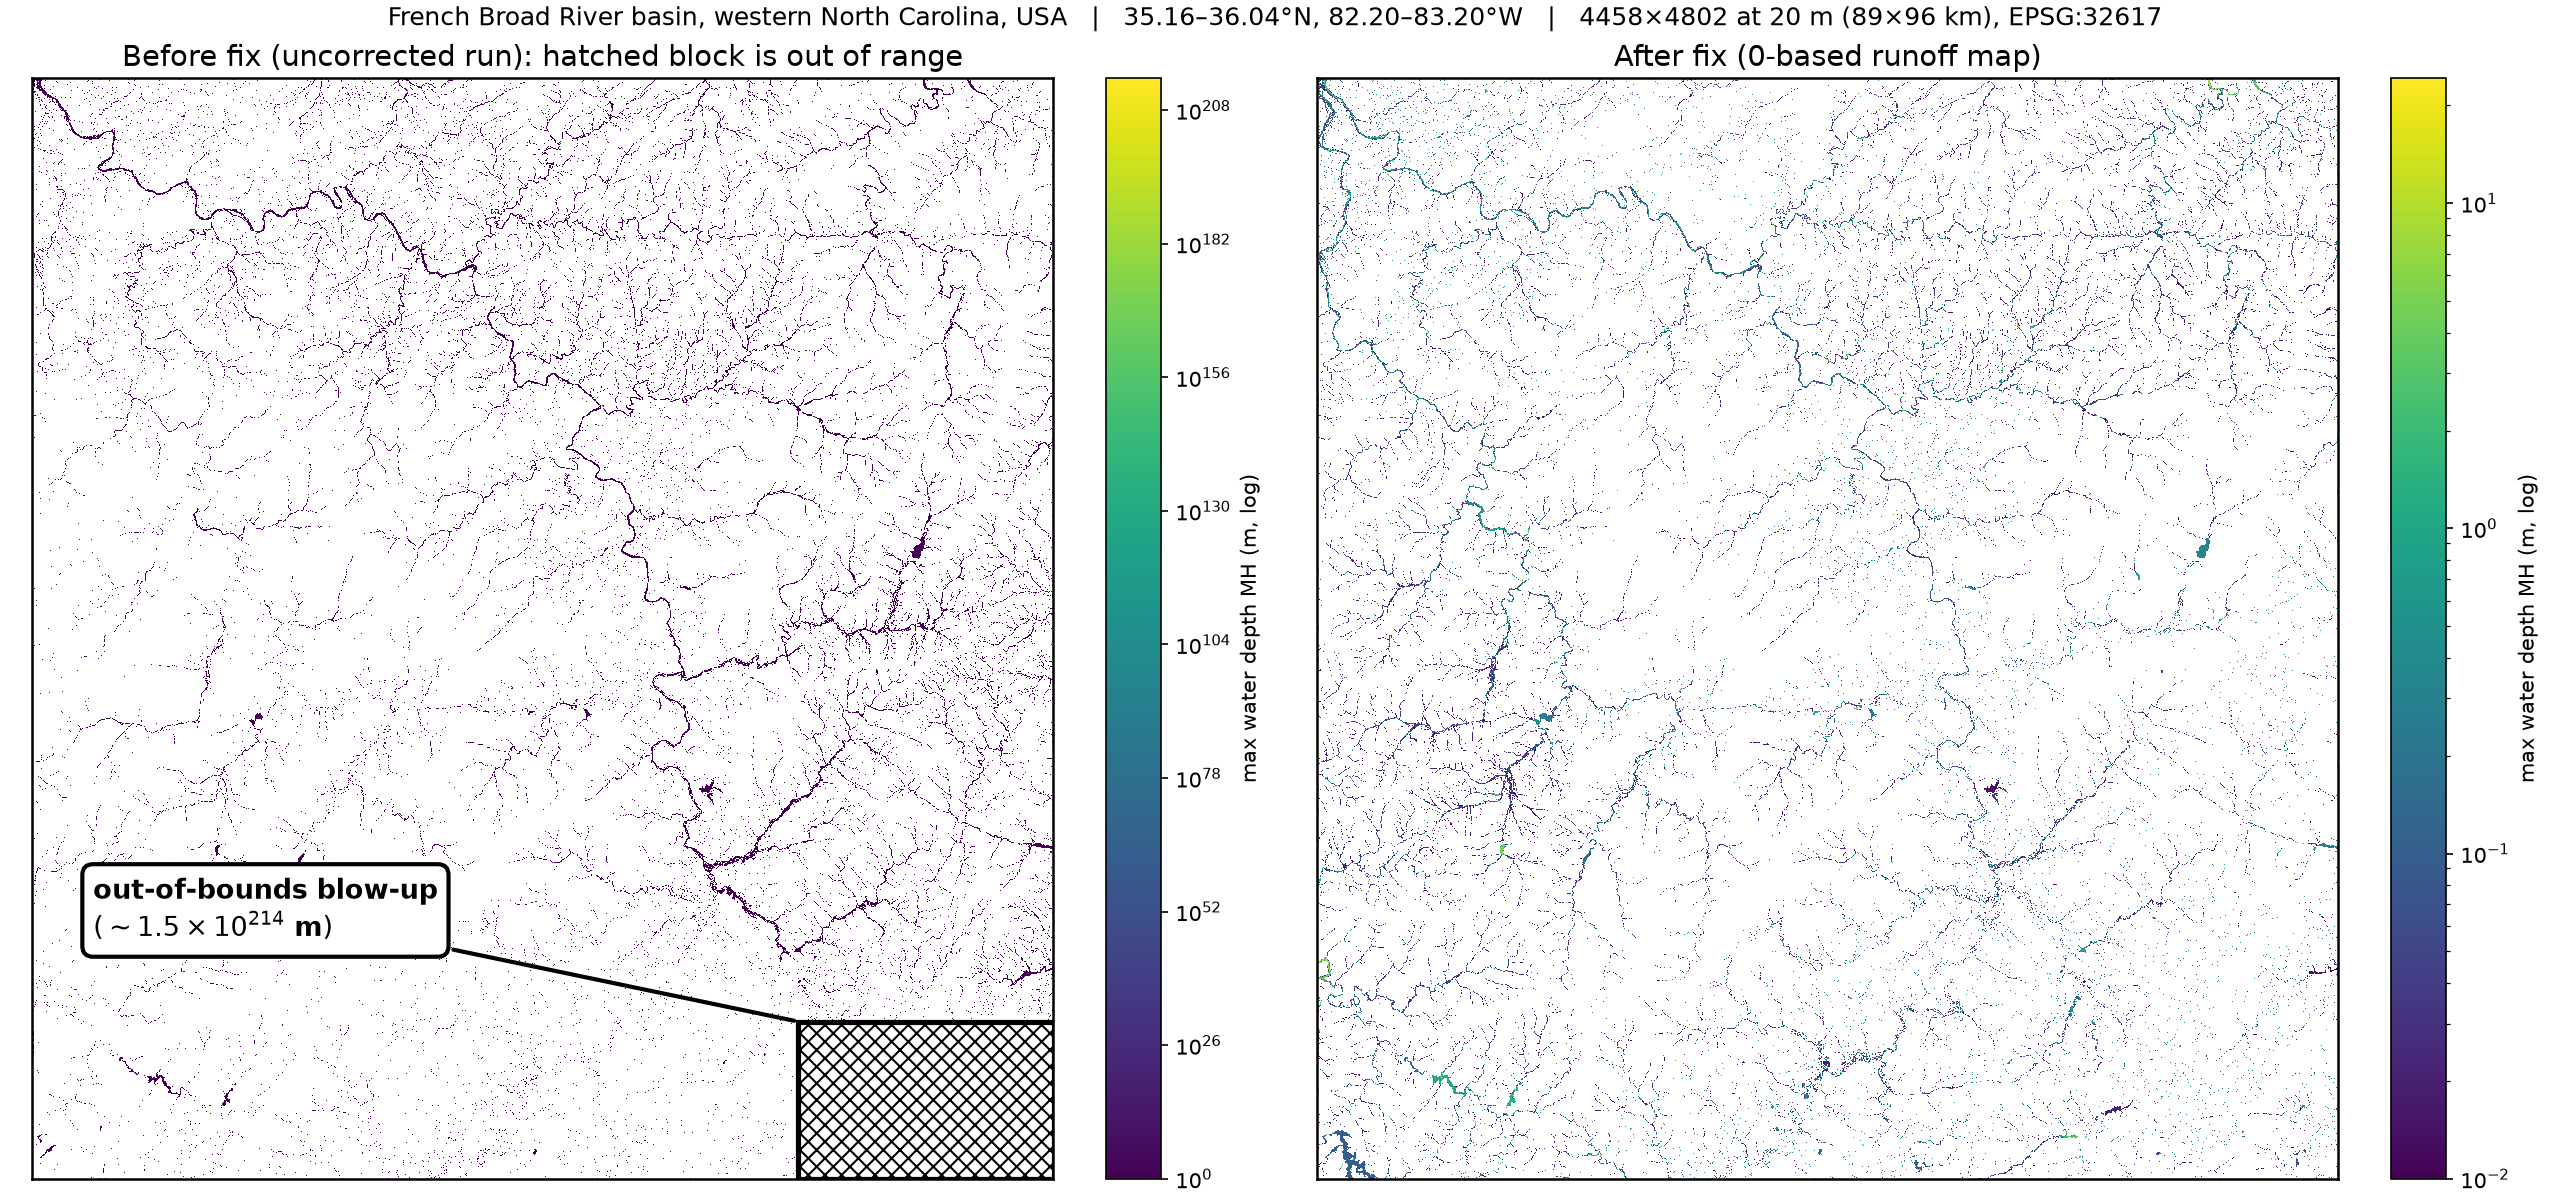
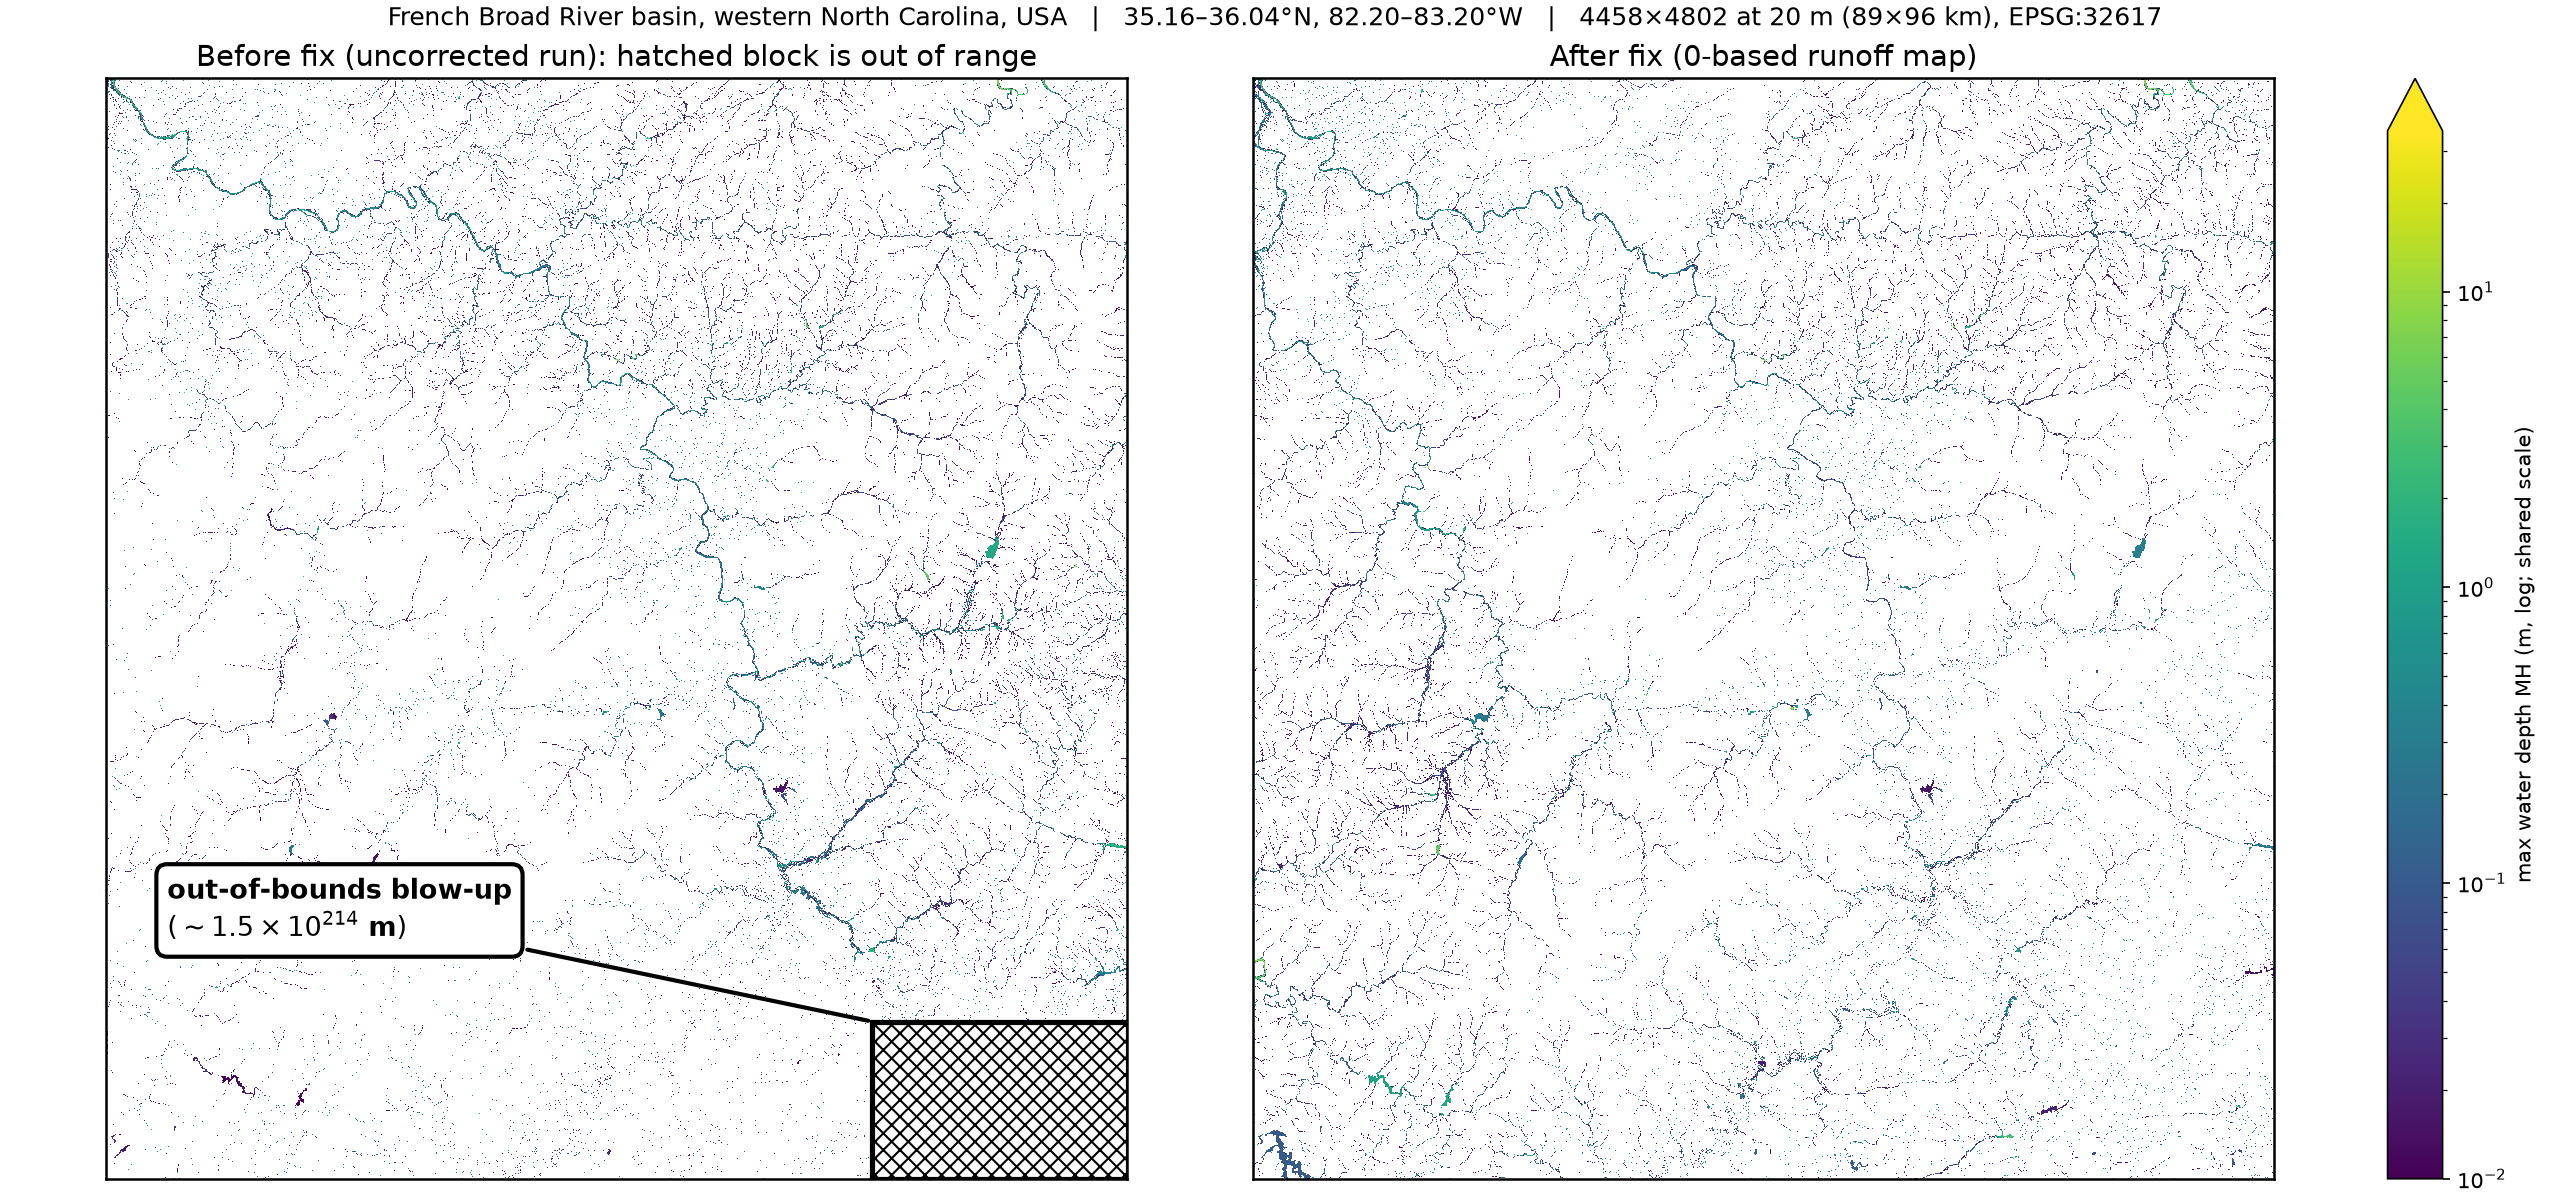
Rename the anomaly figure and drop "operational" from the paper
- Rename figures/operational-anomaly.png to figures/testcase-anomaly.png
- Replace both result figures with the shared-log-scale renders
- Fig. 1 caption: depth scale is now logarithmic, 0.01-35 m
- Fig. 4 caption: one shared colour scale across both panels; note that the
  corrected run carries water through channels the uncorrected run left dry;
  drop the re-checking sentence
- Replace "operational" and "production" with the test-case framing in the
  abstract, introduction, contributions, Fig. 1 caption, results, conclusion,
  and appendix
- Remove the GPU-hours-per-year sentence from the conclusion

Claude-Session: https://claude.ai/code/session_019AA3HSiEojgHDPYtonYqdn

diff --git a/paper/main.tex b/paper/main.tex
@@ -73,7 +73,7 @@ already raises none. Third, the tool \emph{reduces} computational cost: \textbf{
 back-and-forth turns, \textbf{$\sim$2.3--4.4$\times$ fewer} output tokens, and $1.6$--$3.8\times$
 less wall-clock time, at under \textbf{1.5\%} overhead. Finally, we validate the tool on a
 \emph{real} project, where the tool statically catches, in about a second, an
-out-of-range runoff-indexing bug that silently corrupted a production GPU simulation. We generalize
+out-of-range runoff-indexing bug that silently corrupted a real multi-GPU simulation. We generalize
 that one fix into a family of count-and-reference checks and add fixtures from the real case.
 Along the way we find that test fixtures must be validated against the real solver: a subtle
 mismatch in our fixtures broke no test, yet quietly inflated the tool's measured advantage until
@@ -159,7 +159,7 @@ Finding the fault is only the first step of \emph{debugging} a broken run; the f
 detect, understand, fix, and verify. We package \texttt{diagnose\_project} inside the open-source
 Triforge Visual Studio Code Extension~\cite{triforge} (``the Triforge extension'' below), which
 supports this whole loop, and
-Section~\ref{sec:realworld} walks through the loop end-to-end on a real operational bug. This
+Section~\ref{sec:realworld} walks through the loop end-to-end on a real bug. This
 paper measures only the first step, detection, in a controlled way; the later steps appear in
 that case study as a demonstration rather than as separately measured claims.
 
@@ -174,8 +174,8 @@ that case study as a demonstration rather than as separately measured claims.
         (Section~\ref{sec:method}).
   \item A transparent, end-to-end evaluation, published for inspection. A $\pm$tool ablation
         isolates \emph{where} the tool helps (sharper fault localization, fewer false alarms, and
-        lower cost, not better raw detection), and a real operational run validates the tool end-to-end on
-        a bug that had silently corrupted a production GPU job (Section~\ref{sec:realworld},
+        lower cost, not better raw detection), and a real TRITON test case validates the tool
+        end-to-end on a bug that had silently corrupted a multi-GPU run (Section~\ref{sec:realworld},
         Figure~\ref{fig:beforeafter}). Every per-fixture verdict, transcript, and ground-truth label
         is browsable online as reviewer
         artifacts~\cite{artifact-tool,artifact-oracle,artifact-ablation,artifact-human}.
@@ -191,11 +191,12 @@ failure that prompted the tool.
 
 \begin{figure*}[!t]
 \centering
-\includegraphics[width=0.60\textwidth]{figures/operational-anomaly.png}
-\caption{A real ``works-but-wrong'' failure in an operational TRITON run over the French
+\includegraphics[width=0.60\textwidth]{figures/testcase-anomaly.png}
+\caption{A real ``works-but-wrong'' failure in a TRITON forecast test case over the French
 Broad River basin, western North Carolina ($4458\times4802$ cells at $20$\,m). (a)~Final
-maximum water depth: a physical dendritic flood (shaded, $0$--$2$\,m) \emph{plus} a hard-edged
-$1.5\times10^{214}$\,m block in the southeast (hatched). (b)~The runoff zone map: the block
+maximum water depth (logarithmic, $0.01$--$35$\,m): a physical dendritic flood \emph{plus} a
+hard-edged $1.5\times10^{214}$\,m block in the southeast, hatched because no scale holds both.
+(b)~The runoff zone map: the block
 sits exactly on the hatched zone~28. With
 \texttt{num\_runoffs}=28 and 0-based indexing, that reads one entry past the runoff table, an unchecked out-of-bounds access in the solver
 kernel. Nothing crashed; the tool flags this from the setup files alone.}
@@ -667,7 +668,7 @@ time than the \emph{bare} arm. The saving is far larger than the cost.
 \label{sec:realworld}
 This is the silent-corruption case on a real project, the clearest example of the one fault
 class only the tool catches (Section~\ref{sec:oracle}). The $32$-project test set was built for
-this evaluation, so we also ran the tool on a real failure: the operational project behind
+this evaluation, so we also ran the tool on a real failure: the test-case project behind
 Section~\ref{sec:motivation} (Figure~\ref{fig:anomaly}), where the solver had \emph{run to
 completion} on a GPU cluster and returned output that looked plausible but was physically
 meaningless, a fault that never shows up as a crash. The mistake was not in
@@ -703,13 +704,14 @@ code would ever have revealed.
 % 0.59 not 0.60: this render is ~1% taller in aspect than the one it replaces, and at 0.60 the
 % extra 1.2pt pushes this float off its text page and cascades an extra page into the paper.
 \includegraphics[width=0.59\textwidth]{figures/mh-before-after.png}
-\caption{Real HPC output before and after the tool-diagnosed fix (maximum water depth,
-logarithmic colour scale, dry cells left blank). \textbf{Left:} the uncorrected run, where a runoff
-map numbered from $1$ causes an out-of-range table read that injects a constant
-$\sim$$1.5\times10^{214}$\,m block in the southeast (hatched), flattening the real flood
-network at the bottom of a scale spanning more than $200$ orders of magnitude. \textbf{Right:} the
-corrected run, numbered from $0$: realistic, terrain-following depths (maximum $34.0$\,m), and
-the block is gone. Re-checking both maps with the tool reports no fault on the corrected run.}
+\caption{Real HPC output before and after the tool-diagnosed fix (maximum water depth, one
+shared logarithmic colour scale, dry cells left blank). \textbf{Left:} the uncorrected run, where
+a runoff map numbered from $1$ causes an out-of-range table read that injects a constant
+$\sim$$1.5\times10^{214}$\,m block in the southeast, hatched because plotting it
+would compress every physical depth into the bottom of the scale. \textbf{Right:}
+the corrected run, numbered from $0$: realistic, terrain-following depths (maximum $34.0$\,m),
+and the block is gone. On the shared scale the corrected run visibly carries water through
+channels the uncorrected run left dry.}
 \label{fig:beforeafter}
 \end{figure*}
 
@@ -854,12 +856,10 @@ A small, static tool measurably improves an AI assistant's ability to catch ``wo
 wrong'' HPC faults before any compute is spent. It works from the project's own setup files and
 reaches the agent through standard interfaces. The tool does this while \emph{reducing} the
 agent's turns and cost. The result holds across two independent AI clients, and the tool's own
-overhead is negligible. The compute at stake dwarfs that overhead: the operational run of
+overhead is negligible. The compute at stake dwarfs that overhead: the test-case run of
 Section~\ref{sec:motivation} held eight A100 GPUs for $28$~minutes (about $3.7$ GPU-hours) and
 returned a product that had to be discarded, while the static check that catches the fault takes
-about a second on a laptop. A TRITON forecasting project consumes on the order of $200$
-GPU-hours a year, so a deployment that catches even two or three setup errors a quarter saves
-hundreds of GPU-hours.
+about a second on a laptop.
 
 Two lessons generalize past this solver. First, test fixtures must be \emph{validated} against
 the real program, not merely constructed: a missing header in our binary inputs broke no test,
@@ -904,7 +904,7 @@ verdict for every one of the 248 ablation runs.
 \emph{Run-time environment:} Ubuntu~24.04.4 LTS (kernel~7.0.0), Node~22.22.2,
 Python~3.12.3, \texttt{jq}~1.7, bubblewrap~0.9.0; no root access needed.
 \emph{Hardware:} Layers~1--2 need only a commodity x86-64 machine; ours was a dual-core
-(4-thread) Intel Core~i5-4250U with 7\,GB RAM. The two operational runs of
+(4-thread) Intel Core~i5-4250U with 7\,GB RAM. The two test-case runs of
 Figures~\ref{fig:anomaly} and~\ref{fig:beforeafter} each used 8 NVIDIA~A100 GPUs
 (2 nodes $\times$ 4) for $28$~minutes (about $3.7$ GPU-hours per run) over the French Broad
 River basin, western North Carolina, on a $4458\times4802$ grid at $20$\,m for $10$ simulated
